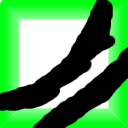
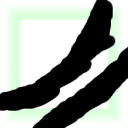
added tint to ASprite
added tint to node focused texture and buildable texture

diff --git a/app/assets/javascripts/tdef/game/tilemap_pixi.js b/app/assets/javascripts/tdef/game/tilemap_pixi.js
@@ -257,38 +257,30 @@ Grid.prototype.getPosition = function(id){
 	return {x: parseInt(id%this.size) * this.nodesize, y: parseInt(id/this.size) * this.nodesize}
 }
 
-//used to get texture for setFocus
-Grid.prototype.getFocusTexture = function(path, opt){
-	return new PIXI.Texture.fromImage(path);
-}
 
-Grid.prototype.setFocus = function(texture, opt){
+Grid.prototype.setFocus = function(){
 	this.focusedNodeContainer=new PIXI.DisplayObjectContainer();
 	this.focusedNodeContainer.rotation=-Math.PI/4;
-	this.focusedNode=new PIXI.Sprite(texture);
-	this.focusedNode.height=this.nodesize
-	this.focusedNode.width=this.nodesize
-	
+	this.focusedNode=new ASprite(
+		getTextureFrames(this.engine.textures.map_focused_node),
+		{width: this.nodesize, height: this.nodesize, tint:this.engine.textures.map_focused_node.tint}
+	);
 	this.focusedNodeContainer.addChild(this.focusedNode);
 	this.addChild(this.focusedNodeContainer);
 }
 
-//uset to get texture for setBuildableNode
-Grid.prototype.getBuildableTexture = function(path, opt){
-	return new PIXI.Texture.fromImage(path);
-}
 
-Grid.prototype.setBuildableNode = function(id, terrain, opt){
+Grid.prototype.setBuildableNode = function(id, textures, opt){
 	opt=opt || {};
-	var node=new PIXI.Sprite(terrain)//TODO: change to ASptrite
+	opt.height= this.nodesize;
+	opt.width= this.nodesize;
+	opt.anchor={x:0,y:1};
+	var node=new ASprite(textures, opt);
 	var pos=this.getPosition(id)
 	
-	node.height=this.nodesize
-	node.width=this.nodesize
 	node.position.x=pos.x
 	node.position.y=pos.y
 	node.rotation=Math.PI/2;
-	node.anchor.y=1;
 	node.id=id
 	
 	this.buildable.addChild(node);

diff --git a/app/assets/javascripts/tdef/game/engine_pixi.js b/app/assets/javascripts/tdef/game/engine_pixi.js
@@ -178,13 +178,13 @@ TDefEngine.prototype.loadMap= function (){
 	
 	var fullsize=opt.size*opt.size;
 	var size=map.size;
-	map.setFocus(map.getFocusTexture(focusTexturePath));
-	var buildableTexture=map.getBuildableTexture(buildableTexturePath);
+	map.setFocus();
+	var buildableTextures=getTextureFrames(this.textures.map_build_node);
 	for(var i=0;i<fullsize;i++){
 		map.setNode(i,opt.textures[opt.nodes[i]]);
 	//	console.log(opt.buildable,opt.buildable[i])
 		if (opt.buildable[i]=="1")
-			map.setBuildableNode(i,buildableTexture);
+			map.setBuildableNode(i,buildableTextures,{tint:this.textures.map_build_node.tint});
 		
 	}
 	var k = 0, i, j;

diff --git a/app/assets/javascripts/tdef/game/asprite_pixi.js b/app/assets/javascripts/tdef/game/asprite_pixi.js
@@ -35,14 +35,12 @@ ASprite.prototype.setHeight= function (height){ }
 
 ASprite.prototype.setFrames= function (textures, params){
 	this.frames=[];
+	var keys=["width","height","anchor","tint"]
 	for (var i in textures){
 		this.frames[i]=new PIXI.Sprite(textures[i]);
-		if (params.width)
-			this.frames[i].width=params.width;
-		if (params.height)
-			this.frames[i].height=params.height;
-		if (params.anchor)
-			this.frames[i].anchor=params.anchor;
+		for (var j in keys)
+			if (params[keys[j]])
+				this.frames[i][keys[j]]=params[keys[j]];
 	}
 }
 

diff --git a/app/assets/javascripts/tdef/game/atilingsprite_pixi.js b/app/assets/javascripts/tdef/game/atilingsprite_pixi.js
@@ -34,6 +34,8 @@ ATilingSprite.prototype.setFrames= function (textures, params){
 			this.frames[i].anchor=params.anchor;
 		if (params.scale)
 			this.frames[i].tileScale=params.scale;
+		if (params.tint)
+			this.frames[i].tint=params.tint;
 	}
 }
 
